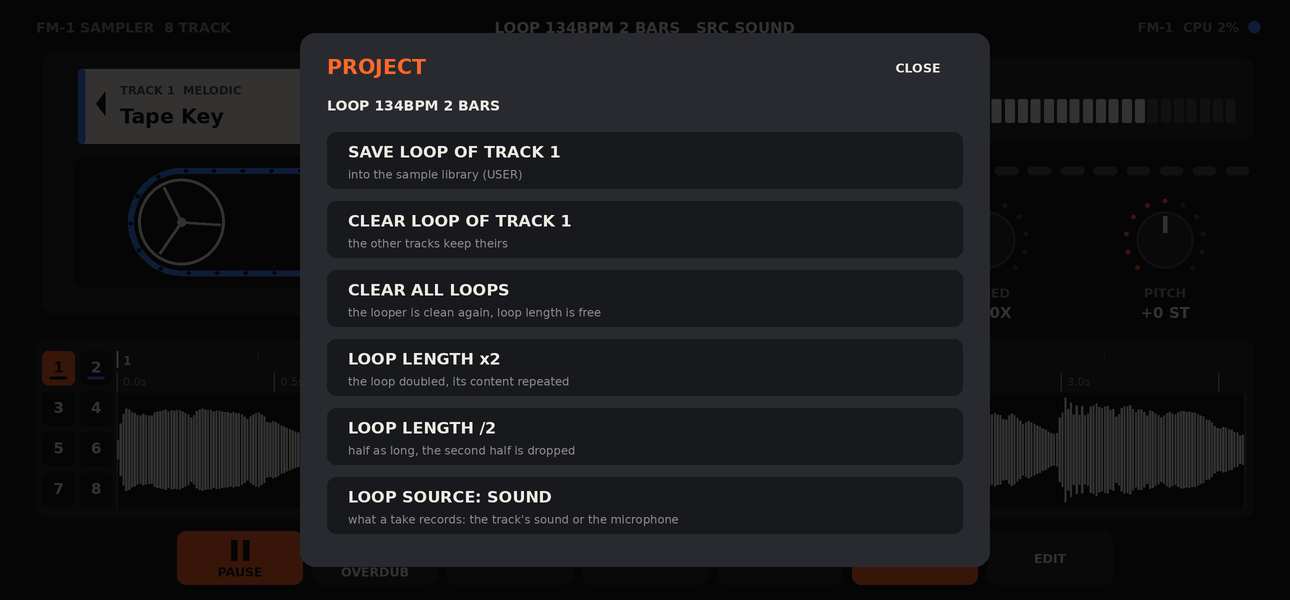
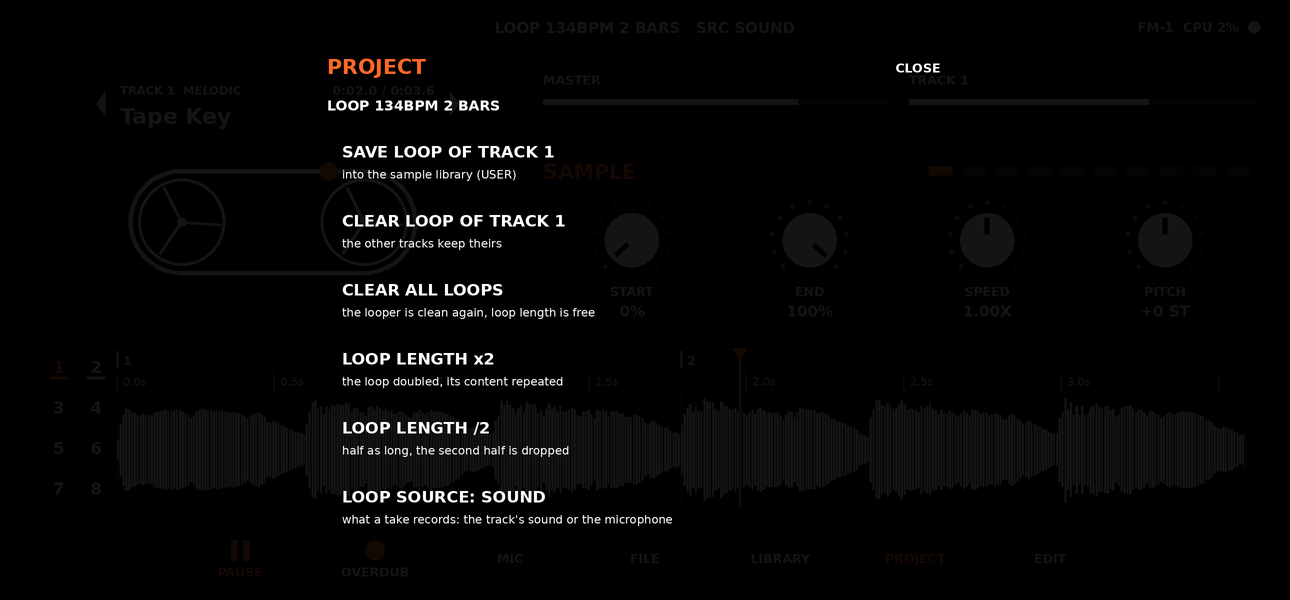
Deck: frameless, black / white / orange only, fewer elements

diff --git a/engine/ui/SamplerUI.cpp b/engine/ui/SamplerUI.cpp
@@ -108,40 +108,40 @@ void SamplerUI::topBar(Rect r) {
 }
 
 // ---- cassette deck ----
-// Flat and minimal, OP-1 like: dark ground, one surface tone, a line tone, paper white for content, orange for what is active or recording,
-// blue for the tape and the playhead. Six colours, no gradients or highlights. The deck has its own palette (it does not follow the theme).
+// Black, white, orange. Flat shapes only: no frames, no cards. White is content, orange is what is active or recording, the dim white is what is idle.
 namespace {
 constexpr float kPi = 3.14159265f;
-constexpr uint32_t kBg = theme::argb(24, 25, 29), kSurf = theme::argb(40, 42, 48), kLine = theme::argb(78, 81, 90), kPaper = theme::argb(236, 234, 226),
-    kOrange = theme::argb(255, 104, 40), kBlue = theme::argb(70, 130, 255), kInk = kBg, kDim = theme::argb(140, 140, 138);
+constexpr uint32_t kBg = theme::argb(0, 0, 0), kPaper = theme::argb(255, 255, 255), kOrange = theme::argb(255, 104, 40), kInk = kBg,
+    kLine = theme::argb(255, 255, 255, 46), kDim = theme::argb(255, 255, 255, 120);
 }
 
-// A roller: a ring with three spokes, turned by `ang`.
+// A roller: a white ring with three spokes, turned by `ang`.
 void SamplerUI::reel(float cx, float cy, float r, float ang) {
-    stroke({cx - r, cy - r, 2 * r, 2 * r}, r, kPaper, 2);
+    circle(cx, cy, r, kPaper);
+    circle(cx, cy, r - 2, kBg);
     for (int k = 0; k < 3; k++) { const float a = ang + k * 2 * kPi / 3; line(cx, cy, cx + (r - 3) * std::cos(a), cy + (r - 3) * std::sin(a), kPaper, 2); }
     circle(cx, cy, 3, kPaper);
 }
 
-// Level meter on a flat card (same place as the old VU face): label, a row of segments, the last ones orange.
+// Level meter: a thin bar, orange where it gets hot.
 void SamplerUI::vu(Rect r, float v, const std::string& name) {
-    rrect(r, 8, kSurf);
-    text(r.x + 12, r.y + 15, 9, kDim, name, 0, true);
-    const int n = 24; const float gap = 2, x = r.x + 12, w = r.w - 24, sw = (w - (n - 1) * gap) / n, y = r.y + 28, h = r.h - 40;
-    for (int i = 0; i < n; i++) rrect({x + i * (sw + gap), y, sw, h}, 1, i < (int)(clamp01(v) * n + 0.5f) ? (i >= n - 5 ? kOrange : kPaper) : kLine);
+    text(r.x, r.y + 15, 9, kDim, name, 0, true);
+    const float y = r.y + 28, h = 4, w = r.w, f = clamp01(v);
+    rrect({r.x, y, w, h}, 0, kLine);
+    rrect({r.x, y, w * std::min(f, 0.8f), h}, 0, kPaper);
+    if (f > 0.8f) rrect({r.x + w * 0.8f, y, w * (f - 0.8f), h}, 0, kOrange);
 }
 
-// A rotary knob on a knob of the app (drag up / down to turn).
+// A rotary knob on a knob of the app (drag up / down to turn): a white disc, a black pointer, orange dots for the value.
 void SamplerUI::knob(float cx, float cy, SamplerApp::Page page, int idx, bool) {
     auto k = app_.knobs(page);
     const auto& p = k[(size_t)idx];
     if (!p.valid) return;
-    const float R = 19, n = clamp01(p.norm);
+    const float R = 18, n = clamp01(p.norm);
     for (int j = 0; j <= 10; j++) { const float a = (-135.f + j * 27.f) * kPi / 180; circle(cx + std::sin(a) * (R + 7), cy - std::cos(a) * (R + 7), 1.5f, j / 10.f <= n + 0.001f ? kOrange : kLine); }
-    circle(cx, cy, R, kSurf);
-    stroke({cx - R, cy - R, 2 * R, 2 * R}, R, kLine, 1.5f);
+    circle(cx, cy, R, kPaper);
     const float a = (-135.f + n * 270.f) * kPi / 180;
-    line(cx + std::sin(a) * 5, cy - std::cos(a) * 5, cx + std::sin(a) * (R - 3), cy - std::cos(a) * (R - 3), kPaper, 3);
+    line(cx + std::sin(a) * 4, cy - std::cos(a) * 4, cx + std::sin(a) * (R - 3), cy - std::cos(a) * (R - 3), kInk, 3.5f);
     text(cx, cy + R + 16, 9, kDim, fit(p.name, 100, 9), 1, true);
     text(cx, cy + R + 29, 11, kPaper, p.value, 1, true);
     Rect hr{cx - 36, cy - R - 12, 72, 2 * R + 46};
@@ -154,10 +154,8 @@ void SamplerUI::cassette(Rect c) {
     const bool hasLoop = app_.loopExists() && st_.loopSamples > 0;
     const bool recNow = st_.freeRecording || st_.track_clip_rec[t];
     const int mic = app_.micState();
-    rrect(c, 10, kSurf);
     // label: paper strip with a coloured edge, the sample name, the counter
     Rect lb{c.x + 24, c.y + 12, c.w - 48, 50};
-    rrect(lb, 4, kPaper); rrect({lb.x, lb.y, 5, lb.h}, 2, recNow ? kOrange : kBlue);
     std::string title = app_.sampleLabel(t), sub = "TRACK " + std::to_string(t + 1) + "  " + SamplerApp::algoName(app_.algo());
     if (title.empty()) title = "EMPTY TRACK";
     if (mic == 1) { title = "WAITING FOR SOUND"; sub = "MICROPHONE  " + num("%.0f DB", 20 * std::log10(app_.micThreshold())); }
@@ -165,10 +163,10 @@ void SamplerUI::cassette(Rect c) {
     else if (mic == 3) title = "SAVING";
     const std::string ts = app_.toast();
     if (!ts.empty()) sub = ts;
-    text(lb.x + 28, lb.y + 14, 8.5f, kLine, fit(sub, lb.w - 130, 8.5f), 0, true);
-    text(lb.x + 28, lb.y + 31, 15, kInk, fit(title, lb.w - 56, 15), 0, true);
-    tri(lb.x + 18, lb.y + 15, lb.x + 12, lb.y + 23, lb.x + 18, lb.y + 31, kInk);
-    tri(lb.x + lb.w - 12, lb.y + 15, lb.x + lb.w - 6, lb.y + 23, lb.x + lb.w - 12, lb.y + 31, kInk);
+    text(lb.x + 28, lb.y + 14, 8.5f, kDim, fit(sub, lb.w - 130, 8.5f), 0, true);
+    text(lb.x + 28, lb.y + 31, 16, kPaper, fit(title, lb.w - 56, 15), 0, true);
+    tri(lb.x + 18, lb.y + 15, lb.x + 12, lb.y + 23, lb.x + 18, lb.y + 31, kPaper);
+    tri(lb.x + lb.w - 12, lb.y + 15, lb.x + lb.w - 6, lb.y + 23, lb.x + lb.w - 12, lb.y + 31, kPaper);
     tap({lb.x + 24, lb.y, lb.w - 48, lb.h}, [this] { sheetOpen_ = true; sheetScroll_ = std::max(0.f, (float)app_.libraryCursor() * 34.f - 100.f); app_.refreshLibrary(); });
     tap({lb.x, lb.y, 24, lb.h}, [this] { app_.browse(-1); });
     tap({lb.x + lb.w - 24, lb.y, 24, lb.h}, [this] { app_.browse(1); });
@@ -176,11 +174,10 @@ void SamplerUI::cassette(Rect c) {
     if (hasLoop) { lsec = (float)(st_.loopSamples / app_.session().sampleRate()); lp = loopPos(); psec = lp * lsec; }
     else if (st_.freeRecording) psec = lsec = st_.freeSeconds;
     char cnt[48]; snprintf(cnt, sizeof cnt, "%d:%04.1f / %d:%04.1f", (int)psec / 60, std::fmod(psec, 60.f), (int)lsec / 60, std::fmod(lsec, 60.f));
-    text(lb.x + lb.w - 22, lb.y + 14, 9, kInk, hasLoop || st_.freeRecording ? cnt : "NO LOOP", 2, true);
+    text(lb.x + lb.w - 22, lb.y + 14, 9, kPaper, hasLoop || st_.freeRecording ? cnt : "NO LOOP", 2, true);
     if (recNow || st_.freeArmed) { if (recNow || (now_ / 400) % 2 == 0) circle(lb.x + lb.w - 14, lb.y + 33, 4.5f, kOrange); }
     // the tape loop: one closed ribbon round two rollers; it runs once round per loop, the orange dot is the splice = the start of the loop
     Rect wd{c.x + c.w * 0.07f, lb.y + lb.h + 8, c.w * 0.86f, c.h - (lb.h + 12) - 8 - 32 + 14};
-    rrect(wd, 8, kBg);
     const float cy = wd.y + wd.h / 2, rho = wd.h / 2 - 10, rr = rho - 5;
     const float cxL = wd.x + wd.w * 0.27f, cxR = wd.x + wd.w * 0.73f, L = cxR - cxL, arc = kPi * rho, per = 2 * L + 2 * arc;
     const float turn = hasLoop ? lp : st_.freeRecording ? std::fmod((float)now_ / 2500.f, 1.f) : 0.f;
@@ -194,9 +191,8 @@ void SamplerUI::cassette(Rect c) {
     reel(cxL, cy, rr, -turn * 2 * kPi * 3); reel(cxR, cy, rr, -turn * 2 * kPi * 3);
     float px, py, x, y; at(0, px, py);
     const int segs = 80;
-    for (int i = 1; i <= segs; i++) { at(per * i / segs, x, y); line(px, py, x, y, recNow ? kOrange : kBlue, 4); px = x; py = y; }
-    for (int i = 0; i < 24; i++) { at(turn * per + per * i / 24, x, y); circle(x, y, 1.3f, kBg); }   // marks on the tape: they show the motion
-    at(turn * per, x, y); circle(x, y, 5.5f, recNow ? kPaper : kOrange);
+    for (int i = 1; i <= segs; i++) { at(per * i / segs, x, y); line(px, py, x, y, recNow ? kOrange : kPaper, 3); px = x; py = y; }
+    at(turn * per, x, y); circle(x, y, 6, recNow ? kPaper : kOrange);
 }
 
 float SamplerUI::loopPos() const {
@@ -207,21 +203,18 @@ float SamplerUI::loopPos() const {
 
 // Timeline of the selected track: a ruler with bars and seconds, the loop's waveform, the playhead. Drag anywhere on it to scrub.
 void SamplerUI::timeline(Rect r) {
-    rrect(r, 8, kSurf);
     const int t = app_.track();
     const float chh = (r.h - 16 - 3 * 4) / 4;
     for (int i = 0; i < 8; i++) {   // the eight tracks
         Rect c{r.x + 4 + (i % 2) * 25.f, r.y + 8 + (i / 2) * (chh + 4), 22, chh};
         const bool sel = i == t;
-        rrect(c, 4, sel ? kOrange : kBg);
-        text(c.x + 11, c.y + chh / 2 - 1, 11, sel ? kInk : kPaper, std::to_string(i + 1), 1, true);
-        if (st_.track_clip_rec[i]) rrect({c.x + 5, c.y + chh - 6, 12, 2}, 1, sel ? kInk : kOrange); else if (st_.track_has_clip[i]) rrect({c.x + 5, c.y + chh - 6, 12, 2}, 1, sel ? kInk : kBlue);
+                text(c.x + 11, c.y + chh / 2 - 1, 12, sel ? kOrange : kDim, std::to_string(i + 1), 1, true);
+        if (st_.track_clip_rec[i]) rrect({c.x + 5, c.y + chh - 6, 12, 2}, 0, kOrange); else if (st_.track_has_clip[i]) rrect({c.x + 5, c.y + chh - 6, 12, 2}, 0, sel ? kOrange : kPaper);
         tap({c.x - 2, c.y - 2, c.w + 4, c.h + 4}, [this, i] { app_.selectTrack(i); });
     }
     const float tx = r.x + 54, tw = r.w - 54 - 6, rh = 28, wy = r.y + rh + 8, wh = r.h - rh - 16;
     const bool hasLoop = app_.loopExists() && st_.loopSamples > 0;
     const float sr = (float)app_.session().sampleRate(), loopSec = hasLoop ? (float)(st_.loopSamples / sr) : 0.f;
-    rrect({tx, wy, tw, wh}, 4, kBg);
     if (!hasLoop) {
         const bool rec = st_.freeRecording;
         text(tx + tw / 2, r.y + r.h / 2, 11, rec ? kOrange : kDim, rec ? "RECORDING " + num("%.1f", st_.freeSeconds) + " S" : "NO LOOP: PRESS REC AND PLAY", 1, true);
@@ -232,7 +225,6 @@ void SamplerUI::timeline(Rect r) {
     for (int b = 0; b <= st_.loopBars; b++) {   // bars: numbers and beats on top, a thin line through the waveform
         const float x = tx + b * barPx;
         if (b < st_.loopBars) {
-            if (barPx >= 26) for (int q = 1; q < 4; q++) line(x + q * barPx / 4, r.y + 8, x + q * barPx / 4, r.y + 13, kLine, 1);
             if (b % every == 0) { line(x, r.y + 8, x, r.y + 19, kPaper, 1.2f); text(x + 4, r.y + 14, 9, kPaper, std::to_string(b + 1), 0, true); }
         }
         if (b % every == 0 || b == st_.loopBars) line(x, wy, x, wy + wh, kLine, 1);
@@ -253,19 +245,18 @@ void SamplerUI::timeline(Rect r) {
         for (int i = 0; i < n; i++) { const float v = std::min(1.f, pk[i] / mx); if (v > 0.01f) rrect({tx + i * bw, cy - v * (wh / 2 - 3), std::max(1.f, bw - 0.4f), std::max(1.f, v * (wh - 6))}, 0, rec ? kOrange : kPaper); }
     } else text(tx + tw / 2, wy + wh / 2, 10, kDim, "TRACK " + std::to_string(t + 1) + " HAS NO LOOP", 1, true);
     const float hx = tx + std::min(1.f, loopPos()) * tw;
-    line(hx, r.y + 8, hx, wy + wh, kBlue, 2);
-    tri(hx - 5, r.y + 6, hx + 5, r.y + 6, hx, r.y + 14, kBlue);
+    line(hx, r.y + 8, hx, wy + wh, kOrange, 2);
+    tri(hx - 5, r.y + 6, hx + 5, r.y + 6, hx, r.y + 14, kOrange);
     auto seek = [this, tx, tw](float x, float) { app_.seek(clamp01((x - tx) / tw)); };
     hit({tx, r.y, tw, r.h}, seek, seek);
 }
 
 void SamplerUI::key(Rect r, const std::string& label, int icon, bool on, std::function<void()> f, bool) {
-    rrect(r, 6, on ? kOrange : kSurf);
-    const uint32_t ink = on ? kInk : kPaper;
+    const uint32_t ink = on ? kOrange : kPaper;
     const float cx = r.x + r.w / 2, cy = r.y + r.h / 2 - 5;
     if (icon == 1) tri(cx - 5, cy - 7, cx - 5, cy + 7, cx + 7, cy, ink);
     else if (icon == 2) { rrect({cx - 6, cy - 7, 4.5f, 14}, 0, ink); rrect({cx + 2, cy - 7, 4.5f, 14}, 0, ink); }
-    else if (icon == 3) circle(cx, cy, 6.5f, on ? kInk : kOrange);
+    else if (icon == 3) circle(cx, cy, 6.5f, kOrange);
     text(cx, icon ? r.y + r.h - 9 : r.y + r.h / 2, 9, ink, label, 1, true);
     tap(r, std::move(f));
 }
@@ -273,10 +264,9 @@ void SamplerUI::key(Rect r, const std::string& label, int icon, bool on, std::fu
 void SamplerUI::deck(Rect r) {
     rrect({0, 0, W_, H_}, 0, kBg);
     const bool recOn = st_.freeRecording || st_.track_clip_rec[app_.track()], armed = st_.freeArmed;
-    text(24, 18, 10, kDim, "FM-1 SAMPLER  8 TRACK", 0, true);
     text(W_ / 2, 18, 11, recOn || armed ? kOrange : kPaper, app_.loopText() + "   SRC " + std::string(app_.knobs(SamplerApp::P_SAVE)[1].value), 1, true);
     tap({W_ / 2 - 150, 4, 300, 28}, [this] { auto k = app_.knobs(SamplerApp::P_SAVE); k[1].step(k[1].norm > 0.5f ? -1 : 1); });
-    circle(W_ - 24, 18, 4, linkMidi_ && linkAudio_ ? kBlue : linkMidi_ ? kOrange : kLine);
+    circle(W_ - 24, 18, 4, linkMidi_ && linkAudio_ ? kPaper : linkMidi_ ? kOrange : kLine);
     text(W_ - 34, 18, 9.5f, kDim, std::string(linkMidi_ ? "FM-1  " : "NO FM-1  ") + "CPU " + num("%.0f", st_.cpu_permille / 10.0) + "%", 2, true);
     const float top = 34, ch = 176, cw = std::min(ch * 1.75f, W_ * 0.42f);
     const float cxl = 28, zr = W_ - 24, x0 = cxl + cw + 26, w0 = zr - x0;
@@ -287,11 +277,10 @@ void SamplerUI::deck(Rect r) {
     vu({x0, top + 4, vw, vh}, vl, "MASTER");
     vu({x0 + vw + 14, top + 4, vw, vh}, vr, "TRACK " + std::to_string(app_.track() + 1));
     const float py = top + vh + 24;
-    text(x0, py, 9, kDim, "PAGE", 0, true);
-    text(x0 + 36, py, 15, kOrange, SamplerApp::pageName(app_.page()), 0, true);
+    text(x0, py, 15, kOrange, SamplerApp::pageName(app_.page()), 0, true);
     for (int i = 0; i < 10; i++) {   // the pages as notches: tap one to go there (the FM-1 buttons do the same)
         Rect nr{zr - (10 - i) * 22.f, py - 11, 22, 22};
-        rrect({nr.x + 3, py - 3, 16, 6}, 3, kTabs[i] == app_.page() ? kOrange : kLine);
+        rrect({nr.x + 3, py - 3, 16, 6}, 0, kTabs[i] == app_.page() ? kOrange : kLine);
         tap(nr, [this, i] { app_.gotoPage(kTabs[i]); });
     }
     for (int i = 0; i < 4; i++) knob(x0 + w0 * (i + 0.5f) / 4, py + 46, app_.page(), i);
@@ -314,7 +303,7 @@ void SamplerUI::deck(Rect r) {
     for (size_t i = 0; i < ks.size(); i++) {
         Rect kr{(W_ - total) / 2 + i * (kw + gap), ty, kw, 36};
         key(kr, ks[i].l, ks[i].icon, ks[i].on, ks[i].f, false);
-        if (i == 1 && armed) stroke(kr, 6, kOrange, 2);
+        if (i == 1 && armed && (now_ / 400) % 2 == 0) rrect({kr.x, kr.y + kr.h - 3, kr.w, 3}, 0, kOrange);
     }
 }
 
@@ -508,13 +497,12 @@ void SamplerUI::librarySheet() {
 
 // PROJECT menu: what used to be the SAVE / CLEAR buttons of the FM-1 (and more) on the screen.
 void SamplerUI::projectSheet() {
-    rrect({0, 0, W_, H_}, 0, theme::withAlpha(0xff000000, 200));
+    rrect({0, 0, W_, H_}, 0, theme::withAlpha(0xff000000, 235));
     tap({0, 0, W_, H_}, [this] { projectOpen_ = false; });
     const float bw = std::min(460.f, W_ - 40), bh = 38, gap = 8;
     const int t = app_.track();
     const bool hasClip = st_.track_has_clip[t], any = app_.loopExists();
     const Rect box{(W_ - bw) / 2, 22, bw, H_ - 44};
-    rrect(box, 10, kSurf);
     tap(box, [] {});
     text(box.x + 18, box.y + 22, 15, kOrange, "PROJECT", 0, true);
     key({box.x + box.w - 84, box.y + 8, 72, 30}, "CLOSE", 0, false, [this] { projectOpen_ = false; }, false);
@@ -523,9 +511,8 @@ void SamplerUI::projectSheet() {
     float y = box.y + 66;
     auto row = [&](const std::string& label, const std::string& hint, bool enabled, bool hot, std::function<void()> f) {
         Rect r{box.x + 18, y, box.w - 36, bh};
-        rrect(r, 6, hot ? kOrange : kBg);
-        text(r.x + 14, r.y + bh / 2 - 6, 11.5f, hot ? kInk : enabled ? kPaper : kLine, label, 0, true);
-        text(r.x + 14, r.y + bh / 2 + 9, 8.5f, hot ? kInk : kDim, hint, 0, false);
+        text(r.x + 10, r.y + bh / 2 - 6, 11.5f, hot ? kOrange : enabled ? kPaper : kLine, label, 0, true);
+        text(r.x + 10, r.y + bh / 2 + 9, 8.5f, kDim, hint, 0, false);
         tap(r, std::move(f));
         y += bh + gap;
     };

diff --git a/engine/ui/Theme.h b/engine/ui/Theme.h
@@ -16,8 +16,8 @@ inline bool light = false;
 inline void apply(bool lightVariant) {
     light = lightVariant;
     const uint32_t paper = argb(237, 235, 228), ink = argb(20, 20, 26);
-    ACCENT = argb(232, 163, 61);                       // amber: playhead, selection, recording
-    if (!light) { BG = ink; SURFACE = argb(28, 28, 36); RAISED = argb(40, 40, 50); OUTLINE = argb(66, 66, 78); TEXT = paper; DIM = argb(138, 136, 128); }
+    ACCENT = argb(255, 104, 40);                       // orange: playhead, selection, recording
+    if (!light) { BG = argb(0, 0, 0); SURFACE = argb(16, 16, 16); RAISED = argb(34, 34, 34); OUTLINE = argb(64, 64, 64); TEXT = argb(255, 255, 255); DIM = argb(130, 130, 130); }
     else { BG = paper; SURFACE = argb(226, 223, 214); RAISED = argb(212, 209, 198); OUTLINE = argb(168, 165, 154); TEXT = ink; DIM = argb(110, 108, 100); }
     ON_ACCENT = ink;
     VIOLET = TEXT; GREEN = TEXT; RED = ACCENT; AMBER = ACCENT;

diff --git a/README.md b/README.md
@@ -65,7 +65,7 @@ At start: Tape Key on track 1, Acoustic bass on 2, Shiny on 3, TrapKit (KIT) on 
 - `engine/dsp/Reverb.h` (8 combs + 4 allpasses per side), `TapeDelay.h`, `TapeInsert.h`, `Arp.h` (UP, DOWN, UPDN, CONV, RAND over 1..4 octaves, sample accurate gate), `Wav.*`.
 - `engine/session/Session.*`: tracks, mixer, LFO (once per block, ~170 Hz: pitch, filter, volume or pan), looper, mic recorder, library listing, command queue to the audio thread, worker thread. `status()` is lock-free.
 - `engine/app/SamplerApp.*`: all behaviour: knob pages (`knobs(Page)` is the single source for FM-1 and phone), per-track state, library, looper, FM-1 screen drawing and LEDs, SysEx pacing and loss recovery.
-- `engine/ui/SamplerUI.*`: the phone UI as draw ops. Default view = full-screen tape deck (`deck`: `cassette` (a tape LOOP: one closed ribbon round two rollers, runs once round per loop, splice = loop start), `vu` x2 (master, selected track), `knob` x8 (tape page left, mixer page of the selected track right), `timeline` = one timeline of the selected track (bars + seconds ruler, waveform, playhead, drag to scrub via `Session::seek`), track chips 1..8 on its left, `key` transport row PLAY, REC, SAVE, CLEAR, MIC, FILE, LIBRARY, EDIT; flat OP-1 look: bg / surface / line / paper + orange (active, recording) + blue (tape, playhead), own palette, not themed). EDIT switches to the older editor (left tracks, centre sample/waveform with draggable START/END, voice markers, whole-loop lane, right page tabs + 4 sliders, library sheet). `ui/UiOp.h`, `Theme.h` (paper/ink/amber, square corners).
+- `engine/ui/SamplerUI.*`: the phone UI as draw ops. Default view = full-screen tape deck (`deck`: `cassette` (a tape LOOP: one closed ribbon round two rollers, runs once round per loop, splice = loop start), `vu` x2 (master, selected track), `knob` x8 (tape page left, mixer page of the selected track right), `timeline` = one timeline of the selected track (bars + seconds ruler, waveform, playhead, drag to scrub via `Session::seek`), track chips 1..8 on its left, `key` transport row PLAY, REC, SAVE, CLEAR, MIC, FILE, LIBRARY, EDIT; frameless minimal look: black, white and orange only (the dark theme uses the same), no cards or outlines). EDIT switches to the older editor (left tracks, centre sample/waveform with draggable START/END, voice markers, whole-loop lane, right page tabs + 4 sliders, library sheet). `ui/UiOp.h`, `Theme.h` (paper/ink/amber, square corners).
 - `android/`: `Backend` (FM-1 USB MIDI + USB audio routing, Oboe, 30 Hz tick), `SamplerActivity` (file picker, mic permission), `AudioImport`, `SamplerView` (replays ops), `native-lib.cpp`. Package `com.ferluht.fm1sampler`, lib `fm1sampler`.
 - `firmware/`: the FM-1 firmware (M-VAVE's open firmware with the control-surface protocol of `PROTOCOL.md`). `firmware/FM1-Sampler-Workbench.html` is the flash page; `tools/build_fw.py firmware ~/fm1/wine/drive_c/JL/pi32` rebuilds it (JieLi toolchain under wine, ~30 s). Changes in `app/ctrl.c`: SEL (BTN_SCL) forwarded to the app (no on-device scale screen), splash "SAMPLER".
 
